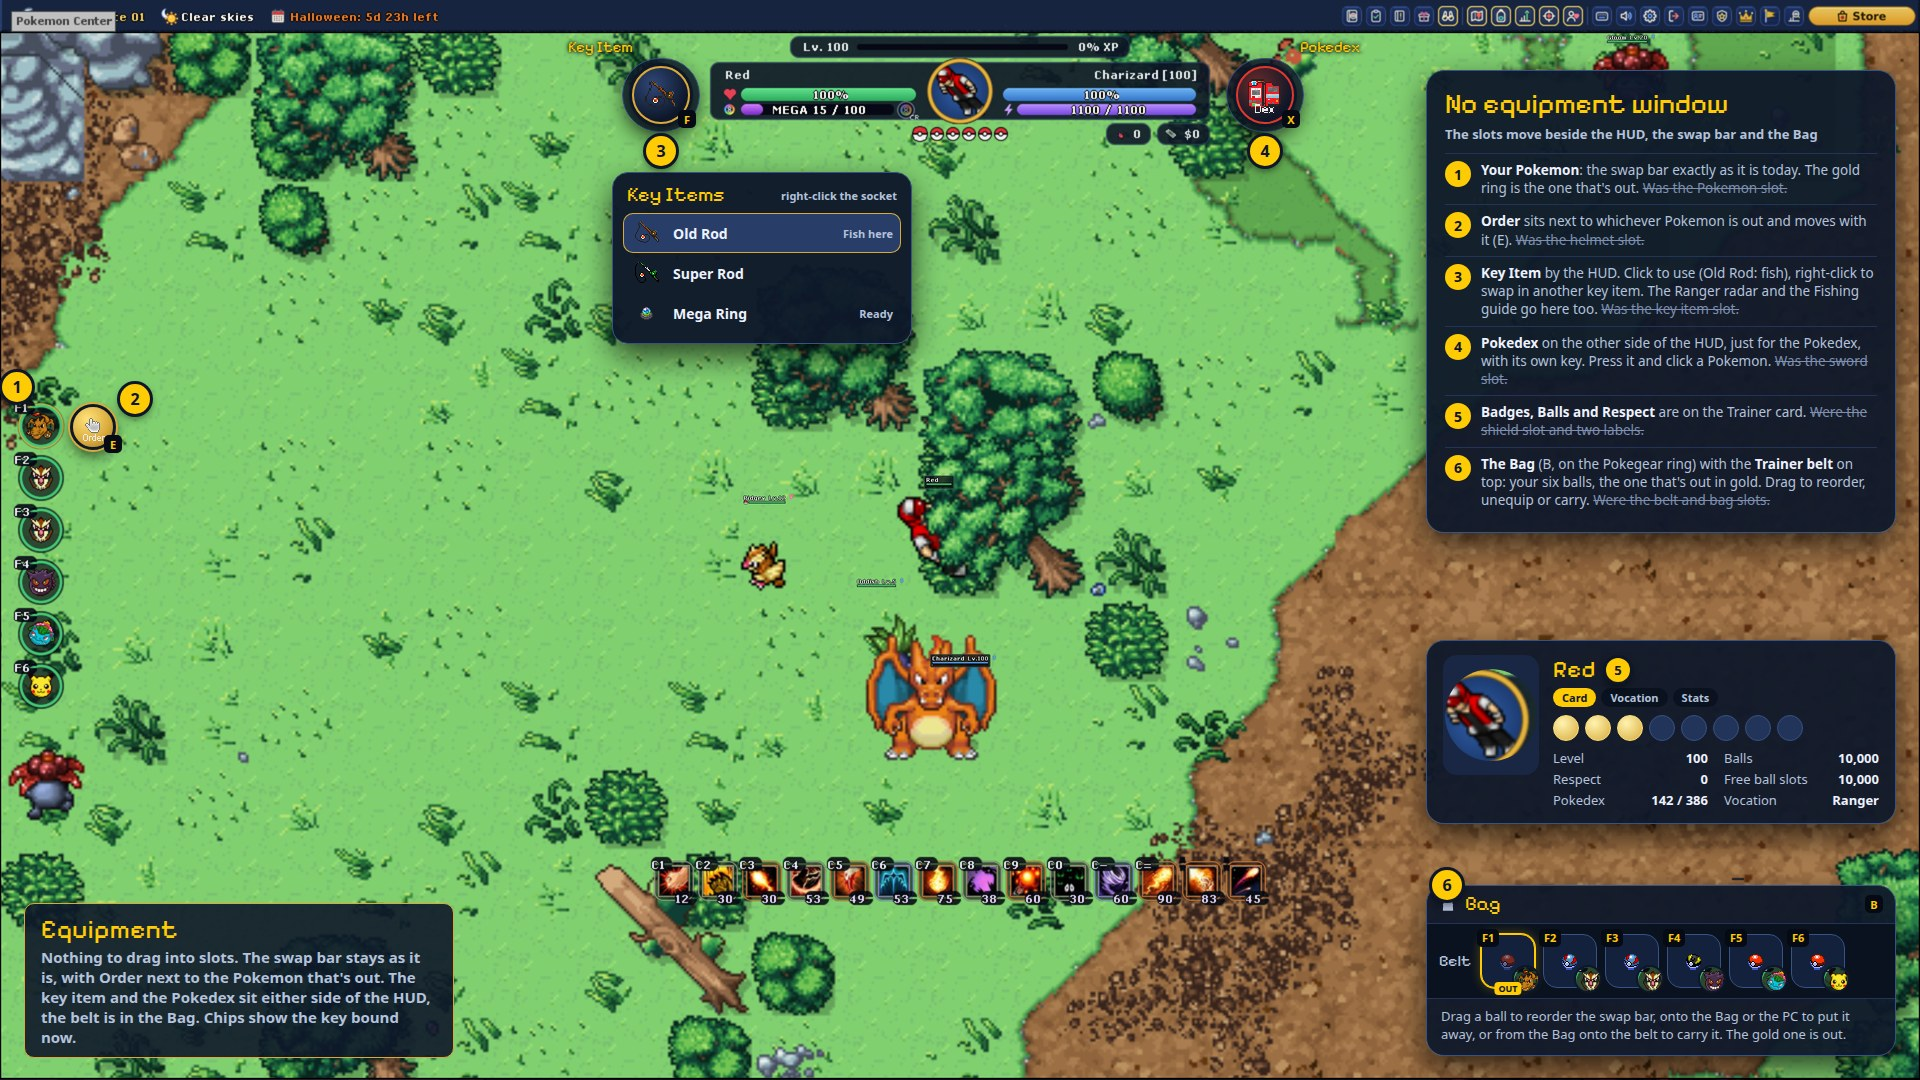
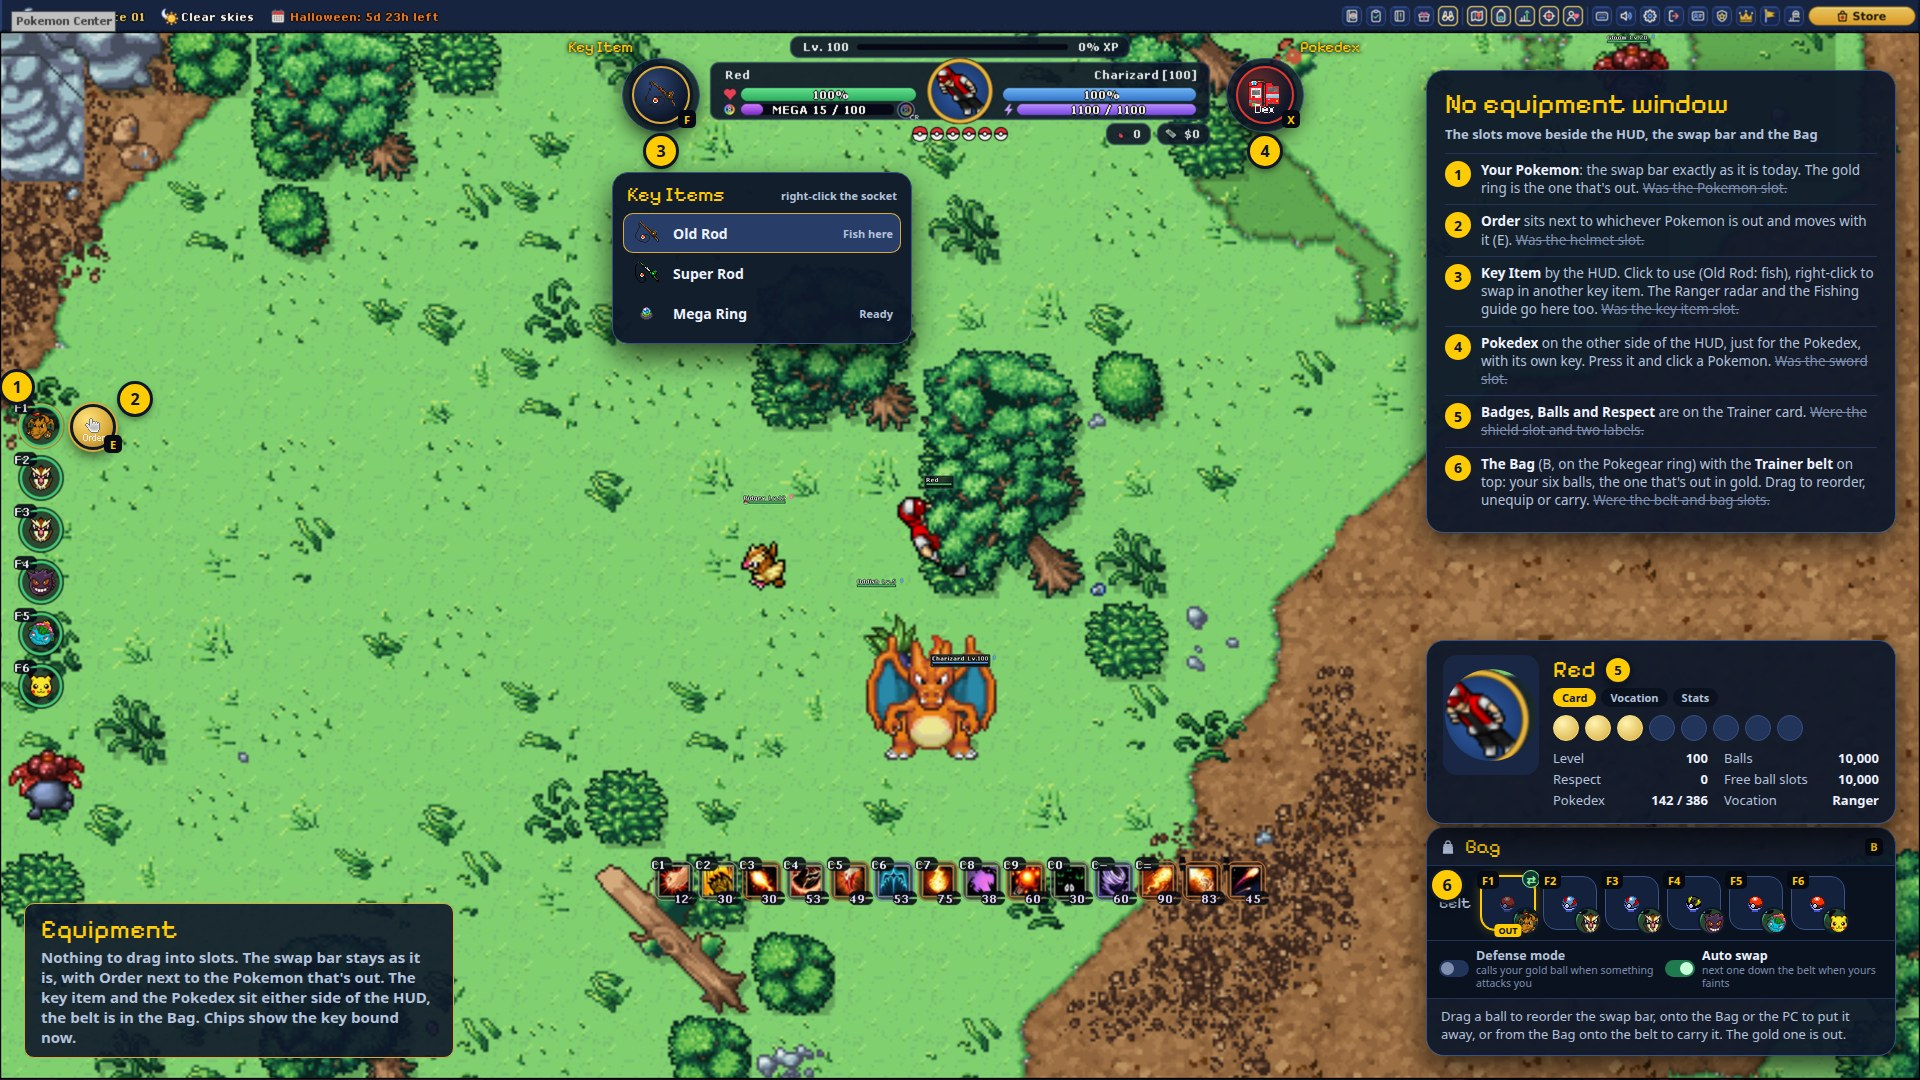
Side panel concept: belt switches, minimap zoom and floor buttons, loot under the HUD with a corpse window, Classic and Pokegear layouts

Changed region(s): [[0.7188, 0.7639, 1.0, 0.9167]]

diff --git a/docs/concepts/side-panel/README.md b/docs/concepts/side-panel/README.md
@@ -89,6 +89,9 @@ Coordinates move to a tooltip on the map (or the staff view). Level and experien
 
 ## Picked so far
 
+- **Two layouts.** Today's layout is kept as **Classic** and keeps working exactly as it does now. The new
+  one is **Pokegear** and becomes the default. Settings › Interface gets a Layout dropdown to switch
+  between them.
 - **Pokegear (B)** for the map and the Bag.
 - **The swap bar stays exactly as it is.** The only addition is the Order button next to the Pokemon that's out.
 - **Nearby** is its own window, separate from your Pokemon, and keeps the Battle List's filters.
@@ -113,15 +116,41 @@ Coordinates move to a tooltip on the map (or the staff view). Level and experien
   - filters: Wild, Trainers, NPCs, Party (`hideMonsters`, `hidePlayers`, `hideNPCs`, `hideParty`);
   - sorts: distance, HP, name, level;
   - Ctrl+B still toggles it.
-- **Loot** from a fainted Pokemon opens as a small grid with Take all.
+- **Minimap ring.** Weather is left to the top bar. On the right of the ring: + and − to zoom, and
+  ▲ and ▼ to go up or down a floor, with the floor shown between them. Around the left: Bag (B),
+  Pokepedia (M), Quests (L, the badge counts updates), Trainer card (P, with Vocation and Stats tabs)
+  and Friends. The tab under the ring drags the whole map.
+- **Loot.**
+  - Auto loot stays on by default. What it picks up is listed right under the HUD, where the loot
+    messages go today in the middle of the screen.
+  - If every bag is full or it can't loot something, the item stays on the body and the list says
+    "Nothing looted, your bags are full".
+  - Opening a body yourself shows a small window with the Pokemon's portrait, the items, Take all and
+    an **Auto loot** switch.
+  - That switch is the same setting as the Auto loot checkbox in Settings › Controls › General
+    (`autoLoot`, which sends `ExtendedIds.AutoLoot` to the server). Today `/autoloot` only flips it on the
+    server, and the checkbox sends its own value again at the next login. The server should send the
+    new value back after `/autoloot`, so the switch, the checkbox and the command always agree.
 
 **The Bag** works like today's backpack: a grid of squares. Right-click an item to use it, and drag
 items in and out (to the ground, a hotkey, the PC, the GTS or another bag).
 - **Trainer belt.** A row along the top with your six balls in swap bar order, each showing its
   Pokemon. The one that's out is gold. Drag a ball to reorder the swap bar, onto the Bag or the PC to
   put it away, or from the Bag onto the belt to carry it.
+- **Belt switches.** Two small switches under the belt. The server does both, so they work the same
+  on any connection; the switch only sends the setting.
+  - **Defense mode** (off by default): when something attacks you, or you target something with no
+    Pokemon out, your gold ball comes out. If that one has fainted, the next one down the belt does.
+    Not in safe zones, and not while surfing, flying or riding.
+  - **Auto swap** (on by default): when the Pokemon that's out faints, the next living one down the
+    belt comes out after the normal faint delay and becomes the gold one. Only while you're still in
+    a fight. With nobody left: one "No Pokemon left to call" message.
+  - Both use the normal call cooldown. Duels, gyms and events can switch them off where their rules
+    need you to choose by hand.
+  - While one is on, the gold ball shows a small mark.
 - **Bags as tabs.**
   - Your starting bag is the first tab. It can't be taken off.
+  - Up to 5 more bags. Each holds as many slots as that bag does, so bigger bags give more room.
   - Every bag you put inside it gets a tab of its own, with its sprite (a Halloween backpack shows as
     one).
   - Right-click a tab to rename it, open it as its own window, or take the bag out.
@@ -136,7 +165,7 @@ items in and out (to the ground, a hotkey, the PC, the GTS or another bag).
   3. the first bag, in tab order, that takes its category;
   4. the starting bag;
   5. any bag with room;
-  6. if everything is full, it stays in the loot window (or the NPC doesn't sell it), with a toast.
+  6. if everything is full, it stays on the body (or the NPC doesn't sell it), with a message.
 
   Rules only decide where a *new* item goes; dragging by hand always wins. "Sort my bags now" applies
   the rules to what you already carry. The server does the routing when the item is added, so it also
@@ -219,6 +248,4 @@ bell, the gear and the Store on the right.
 
 ## To decide
 
-1. What happens when every bag is full: keep the item in the loot window (as drawn), or send it to the
-   PC stash.
-2. How many extra bags you can carry, and whether bigger bags (event backpacks) hold more.
+Nothing open right now.
